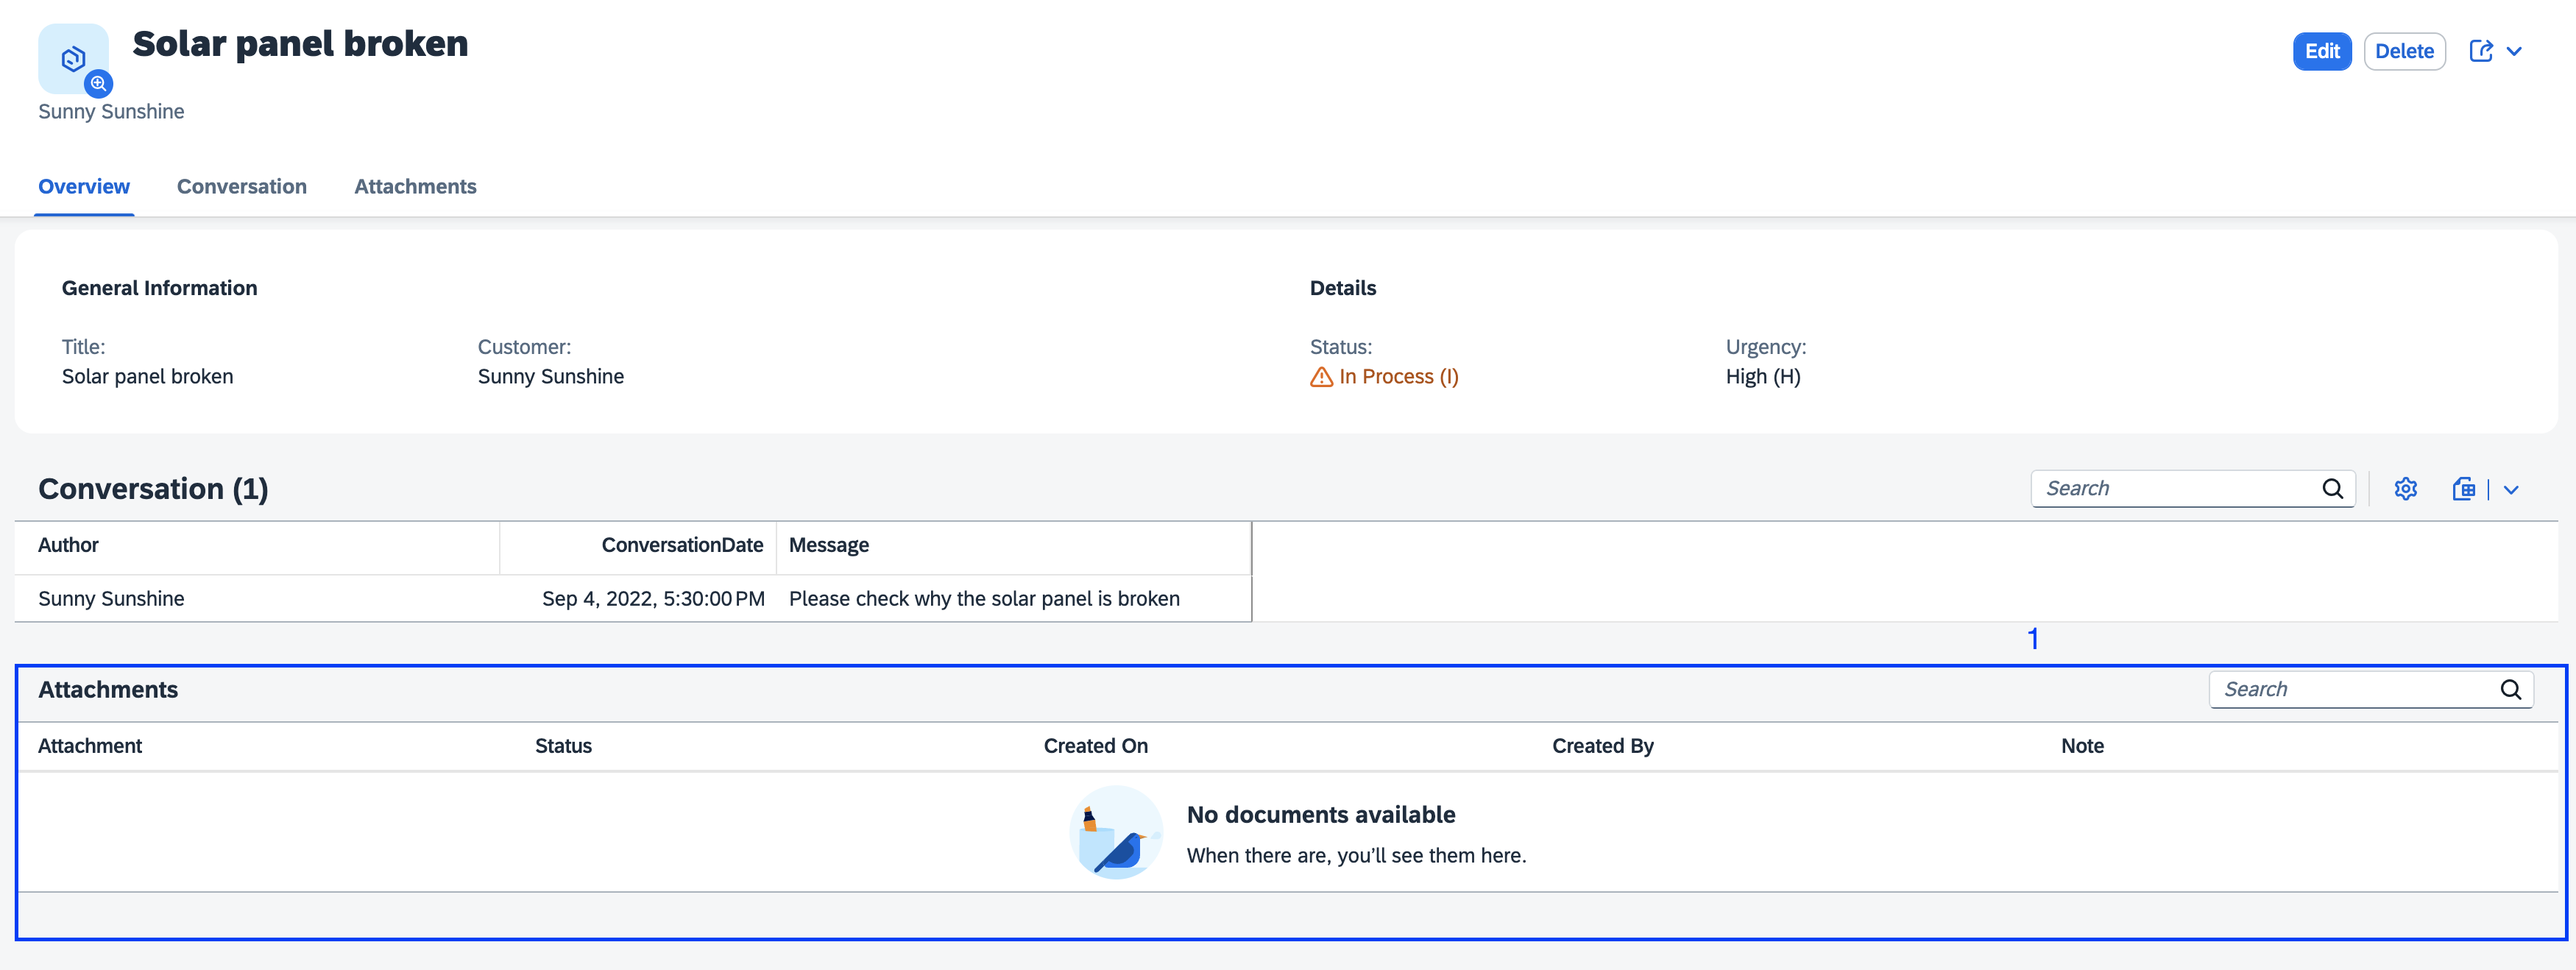
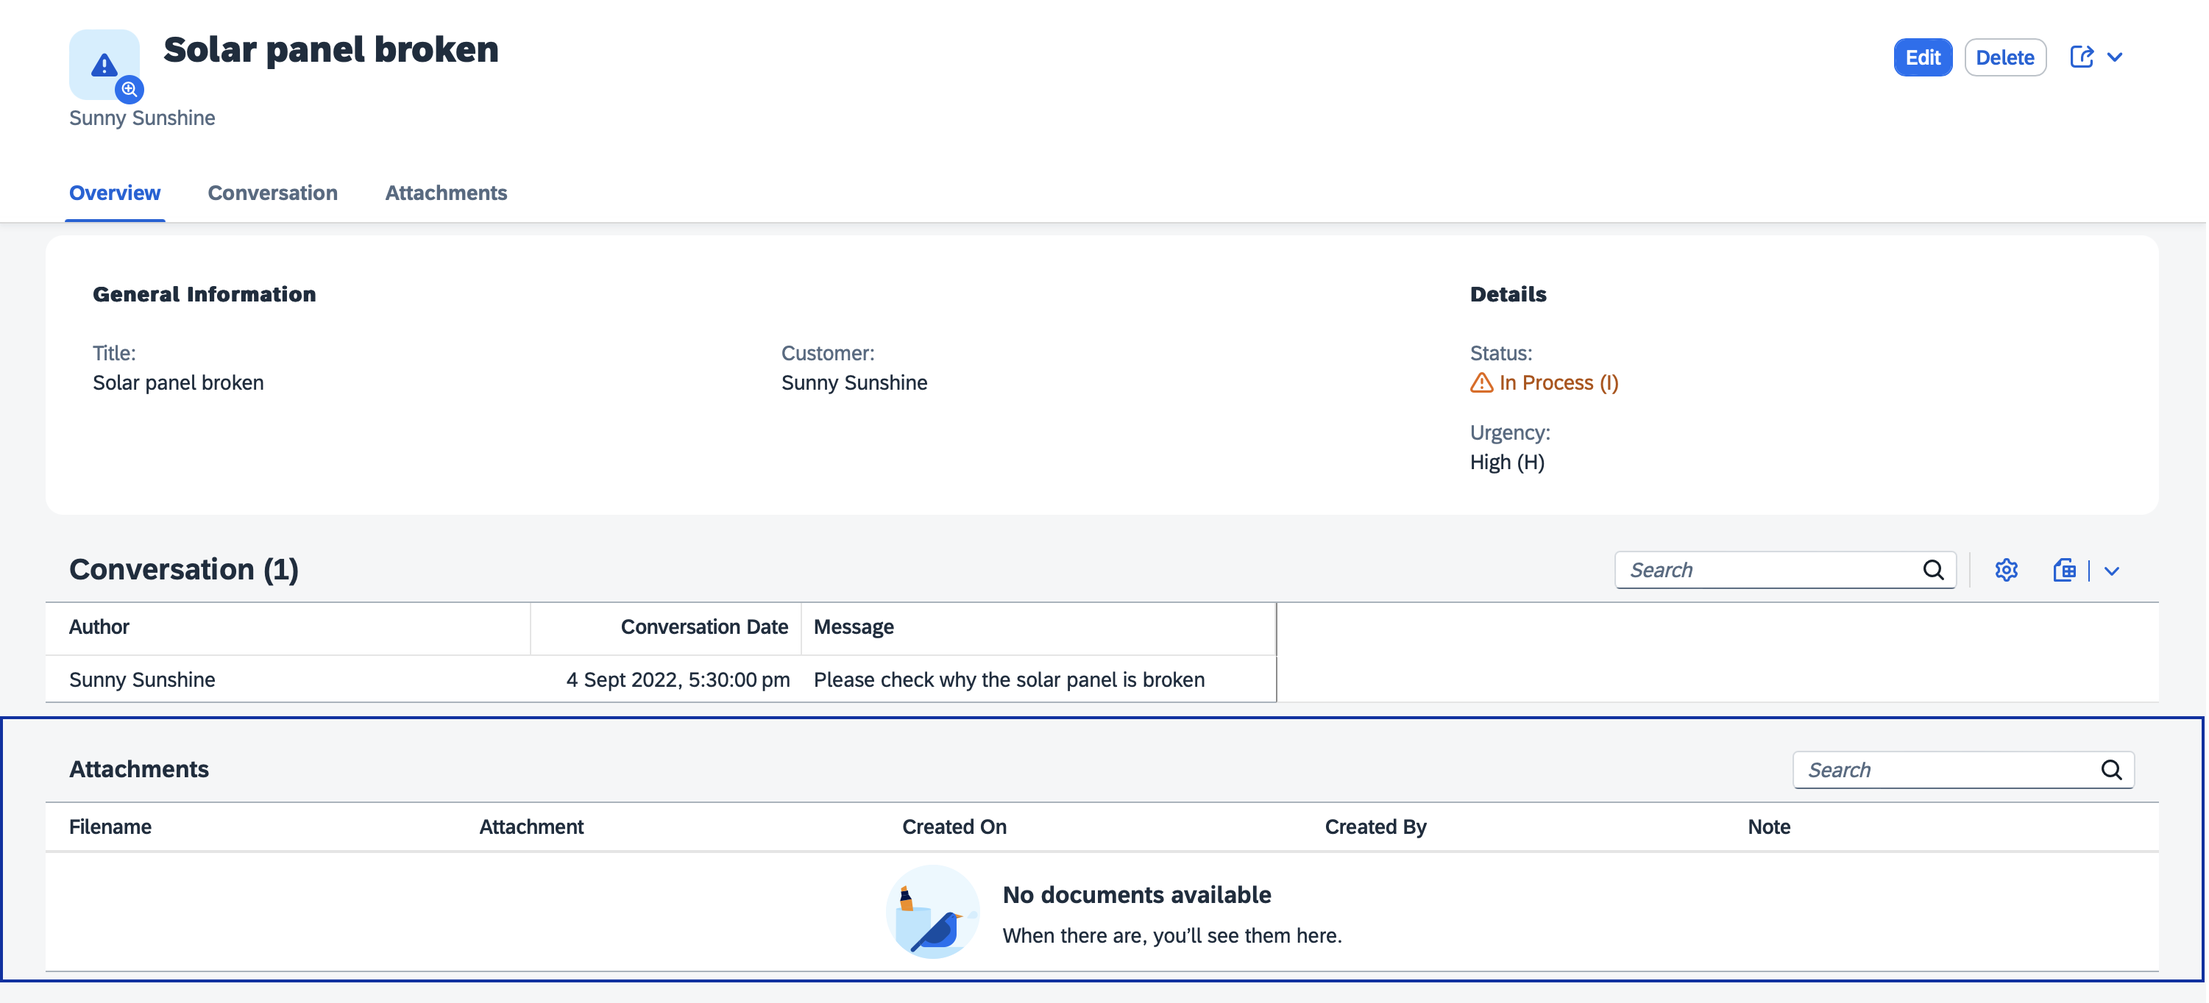
adding new ui to readme

diff --git a/README.md b/README.md
@@ -129,7 +129,13 @@ For using SAP Document Management Service to store attachments, use the instance
 7. **Upload a file** by going into Edit mode and either using the **Upload** button on the Attachments table or by drag/drop. Then click the **Save** button to have that file stored in SAP Document Management Integration Option. We demonstrate this by uploading the PDF file from [_xmpl/db/content/Solar Panel Report.pdf_](./xmpl/db/content/Solar%20Panel%20Report.pdf):
    <img width="1300" alt="Upload an attachment" style="border-radius:0.5rem;" src="etc/upload.gif">
 
-8. **Delete a file** by going into Edit mode and selecting the file(s) and by using the **Delete** button on the Attachments table. Then click the **Save** button to have that file deleted from the resource (SAP Document Management Integration Option). We demonstrate this by deleting the previously uploaded PDF file: `Solar Panel Report.pdf`
+8. **Open a file** by clicking on the attachment. We demonstrate this by opening the previously uploaded PDF file: `Solar Panel Report.pdf`
+   <img width="1300" alt="Delete an attachment" style="border-radius:0.5rem;" src="etc/open.gif">
+
+9. **Rename a file** by going into Edit mode and setting a new name for the file in the rename box. Then click the **Save** button to have that file renamed in SAP Document Management Integration Option. We demonstrate this by renaming the previously uploaded PDF file: `Solar Panel Report.pdf`
+   <img width="1300" alt="Delete an attachment" style="border-radius:0.5rem;" src="etc/rename.gif">
+
+10. **Delete a file** by going into Edit mode and selecting the file(s) and by using the **Delete** button on the Attachments table. Then click the **Save** button to have that file deleted from the resource (SAP Document Management Integration Option). We demonstrate this by deleting the previously uploaded PDF file: `Solar Panel Report.pdf`
    <img width="1300" alt="Delete an attachment" style="border-radius:0.5rem;" src="etc/delete.gif">
 
 ## Running the unit tests
